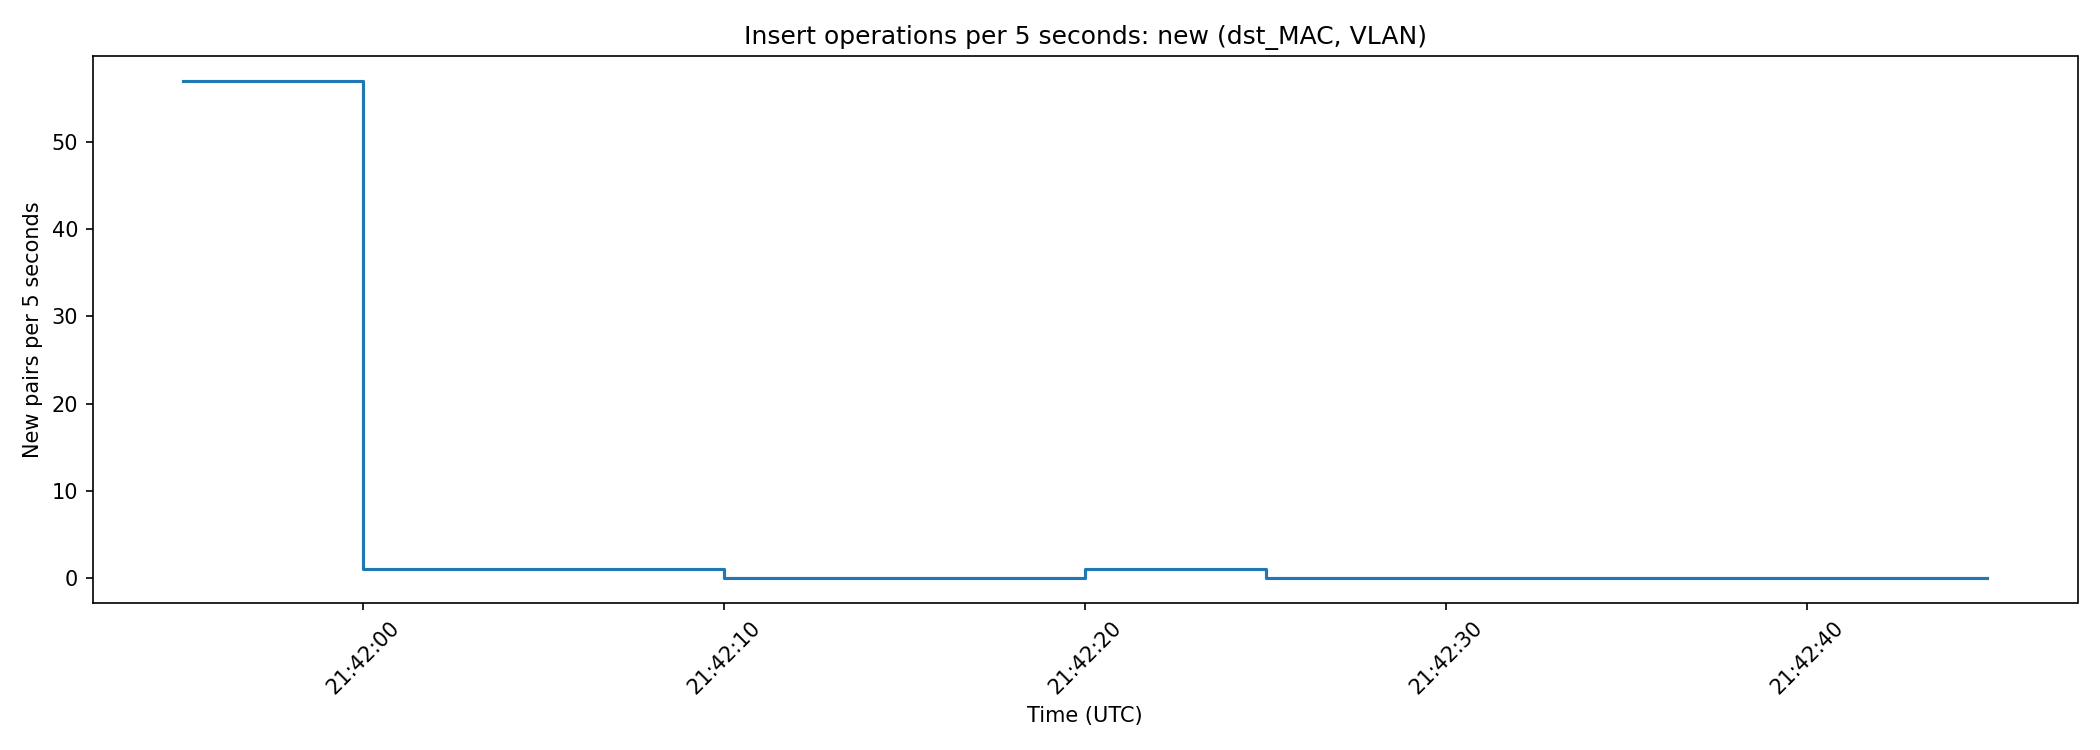
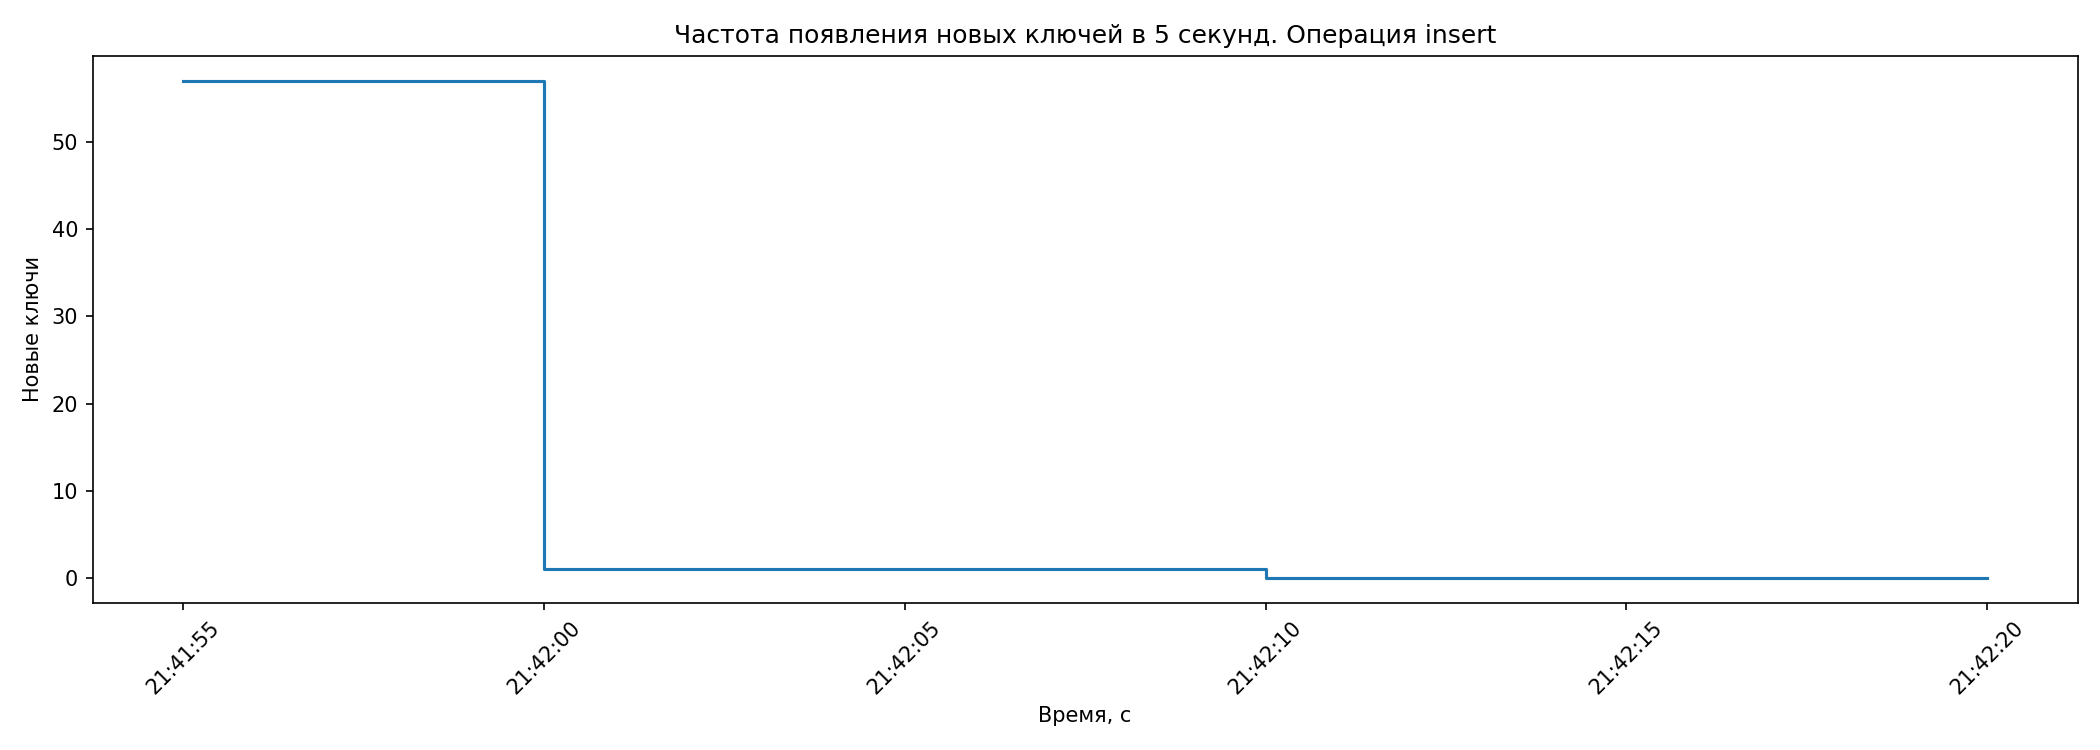
new graphs and stats

diff --git a/code/eco_tech_trace_1/plot_results.py b/code/eco_tech_trace_1/plot_results.py
@@ -10,6 +10,7 @@ from typing import Iterator, Tuple
 
 import pandas as pd
 import matplotlib.pyplot as plt
+import json
 
 
 # Формат события из test1.cpp:
@@ -20,6 +21,38 @@ import matplotlib.pyplot as plt
 
 def log(msg: str) -> None:
     print(f"[plot_results] {msg}", file=sys.stderr)
+
+
+def add_mean_line(values, *, color="red", linestyle="--", linewidth=1.5, label_prefix="Среднее"):
+    mean_value = values.mean()
+    plt.axhline(
+        mean_value,
+        color=color,
+        linestyle=linestyle,
+        linewidth=linewidth,
+        label=f"{label_prefix}: {mean_value:.2f}",
+    )
+
+
+def decode_key_u64(key: int) -> tuple[int, int]:
+    vlan = key & 0xFFF
+    dst_mac = key >> 12
+    return dst_mac, vlan
+
+
+def mac_to_str(mac: int) -> str:
+    return ":".join(f"{(mac >> shift) & 0xFF:02x}" for shift in range(40, -1, -8))
+
+
+def save_unique_triples_json(triple_first_us: dict[tuple[int, int], int], path: Path) -> None:
+    dataset = {}
+
+    for (key, port), first_us in sorted(triple_first_us.items(), key=lambda x: (x[0][0], x[0][1])):
+        dst_mac, vlan = decode_key_u64(key)
+        dataset[mac_to_str(dst_mac) + '-' + str(vlan)] = port
+
+    with path.open("w", encoding="utf-8") as f:
+        json.dump(dataset, f, ensure_ascii=False, indent=2)
 
 
 def open_event_stream(path: Path) -> Iterator[Tuple[int, int, int]]:
@@ -161,6 +194,8 @@ def main() -> None:
 
             total_events += 1
 
+        break
+
     if global_min_sec is None or global_max_sec is None:
         raise RuntimeError("No events found in input files")
 
@@ -180,10 +215,13 @@ def main() -> None:
 
     # New triples per time bucket -> для cumulative_unique_triples
     new_triples_per_sec = Counter()
+    new_triples_per_5sec = Counter()
 
     for first_us in triple_first_us.values():
         sec = first_us // 1_000_000
+        sec5 = (sec // 5) * 5
         new_triples_per_sec[sec] += 1
+        new_triples_per_5sec[sec5] += 1
 
     # Dense tables
     df_requests_sec = sparse_counter_to_dense_df(
@@ -200,6 +238,13 @@ def main() -> None:
         new_pairs_per_5sec, (global_min_sec // 5) * 5, (global_max_sec // 5) * 5, 5, "new_pairs"
     )
 
+    df_new_triples_sec = sparse_counter_to_dense_df(
+        new_triples_per_sec, global_min_sec, global_max_sec, 1, "new_triples"
+    )
+    df_new_triples_5sec = sparse_counter_to_dense_df(
+        new_triples_per_5sec, (global_min_sec // 5) * 5, (global_max_sec // 5) * 5, 5, "new_triples"
+    )
+
     df_cum_pairs = cumulative_from_new_counts(
         new_pairs_per_sec, global_min_sec, global_max_sec, 1, "cumulative_unique_pairs"
     )
@@ -212,6 +257,8 @@ def main() -> None:
     save_tsv(df_cum_triples, out_dir / "cumulative_unique_triples.tsv", ["cumulative_unique_triples"])
     save_tsv(df_new_pairs_sec, out_dir / "new_pairs_per_sec.tsv", ["new_pairs"])
     save_tsv(df_new_pairs_5sec, out_dir / "new_pairs_per_5sec.tsv", ["new_pairs"])
+    save_tsv(df_new_triples_sec, out_dir / "new_triples_per_sec.tsv", ["new_triples"])
+    save_tsv(df_new_triples_5sec, out_dir / "new_triples_per_5sec.tsv", ["new_triples"])
     save_tsv(df_requests_sec, out_dir / "requests_per_sec.tsv", ["requests"])
     save_tsv(df_requests_5sec, out_dir / "requests_per_5sec.tsv", ["requests"])
 
@@ -225,6 +272,12 @@ def main() -> None:
         f.write(f"max_requests_per_5sec\t{int(df_requests_5sec['requests'].max()) if not df_requests_5sec.empty else 0}\n")
         f.write(f"max_new_pairs_per_sec\t{int(df_new_pairs_sec['new_pairs'].max()) if not df_new_pairs_sec.empty else 0}\n")
         f.write(f"max_new_pairs_per_5sec\t{int(df_new_pairs_5sec['new_pairs'].max()) if not df_new_pairs_5sec.empty else 0}\n")
+        f.write(f"max_new_triples_per_sec\t{int(df_new_triples_sec['new_triples'].max()) if not df_new_triples_sec.empty else 0}\n")
+        f.write(f"max_new_triples_per_5sec\t{int(df_new_triples_5sec['new_triples'].max()) if not df_new_triples_5sec.empty else 0}\n")
+
+    # Генерация датасета
+    unique_triples_json_path = out_dir / "real_dataset.json"
+    save_unique_triples_json(triple_first_us, unique_triples_json_path)
 
     # Plots
 
@@ -255,7 +308,7 @@ def main() -> None:
     plt.step(df_new_pairs_sec["datetime"], df_new_pairs_sec["new_pairs"], where="post")
     plt.xlabel("Время, с")
     plt.ylabel("Новые ключи")
-    plt.title("Число операций вставок в секунду: новые ключи (dst_MAC, VLAN)")
+    plt.title("Частота появления новых ключей в секунду. Операция insert")
     plt.xticks(rotation=45)
     plt.tight_layout()
     plt.savefig(plots_dir / "new_pairs_per_sec.png", dpi=150)
@@ -266,7 +319,7 @@ def main() -> None:
     plt.step(df_new_pairs_5sec["datetime"], df_new_pairs_5sec["new_pairs"], where="post")
     plt.xlabel("Время, с")
     plt.ylabel("Новые ключи")
-    plt.title("Число операций вставок в 5 секунд: новые ключи (dst_MAC, VLAN)")
+    plt.title("Частота появления новых ключей в 5 секунд. Операция insert")
     plt.xticks(rotation=45)
     plt.tight_layout()
     plt.savefig(plots_dir / "new_pairs_per_5sec.png", dpi=150)
@@ -275,6 +328,7 @@ def main() -> None:
     # 5. Запросы в секунду = find/sec
     plt.figure(figsize=(14, 5))
     plt.step(df_requests_sec["datetime"], df_requests_sec["requests"], where="post")
+    # add_mean_line(df_requests_sec["datetime"])
     plt.xlabel("Время, с")
     plt.ylabel("Операции поиска")
     plt.title("Число операций поиска в секунду")
@@ -293,6 +347,31 @@ def main() -> None:
     plt.tight_layout()
     plt.savefig(plots_dir / "requests_per_5sec.png", dpi=150)
     plt.close()
+
+    # Новые правила в секунду
+    plt.figure(figsize=(14, 5))
+    plt.step(df_new_triples_sec["datetime"], df_new_triples_sec["new_triples"], where="post")
+    # add_mean_line(df_new_triples_sec["datetime"])
+    plt.xlabel("Время, с")
+    plt.ylabel("Новые правила")
+    plt.title("Число появление новых правил в секунду. Операция upsert")
+    plt.xticks(rotation=45)
+    plt.tight_layout()
+    plt.savefig(plots_dir / "new_triples_per_sec.png", dpi=150)
+    plt.close()
+
+
+    # Новые правила в 5 секунд
+    plt.figure(figsize=(14, 5))
+    plt.step(df_new_triples_5sec["datetime"], df_new_triples_5sec["new_triples"], where="post")
+    plt.xlabel("Время, с")
+    plt.ylabel("Новые правила")
+    plt.title("Число появление новых правил в 5 секунд. Операция upsert")
+    plt.xticks(rotation=45)
+    plt.tight_layout()
+    plt.savefig(plots_dir / "new_triples_per_5sec.png", dpi=150)
+    plt.close()
+
 
     log("done")
     log(f"saved: {out_dir / 'cumulative_unique_pairs.tsv'}")
